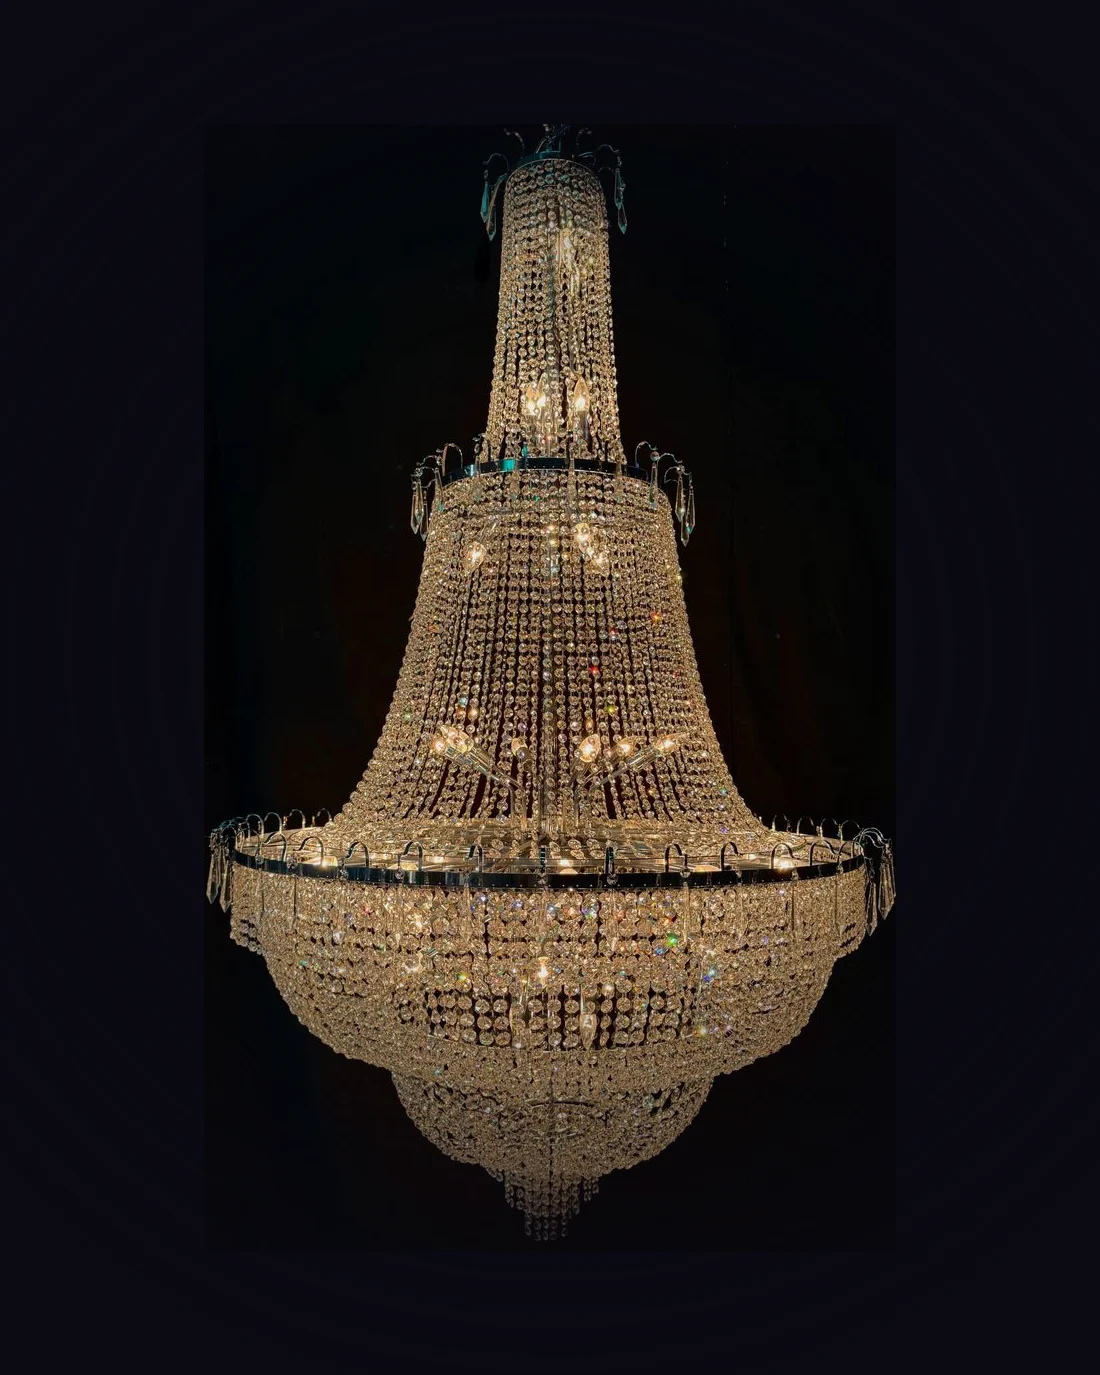
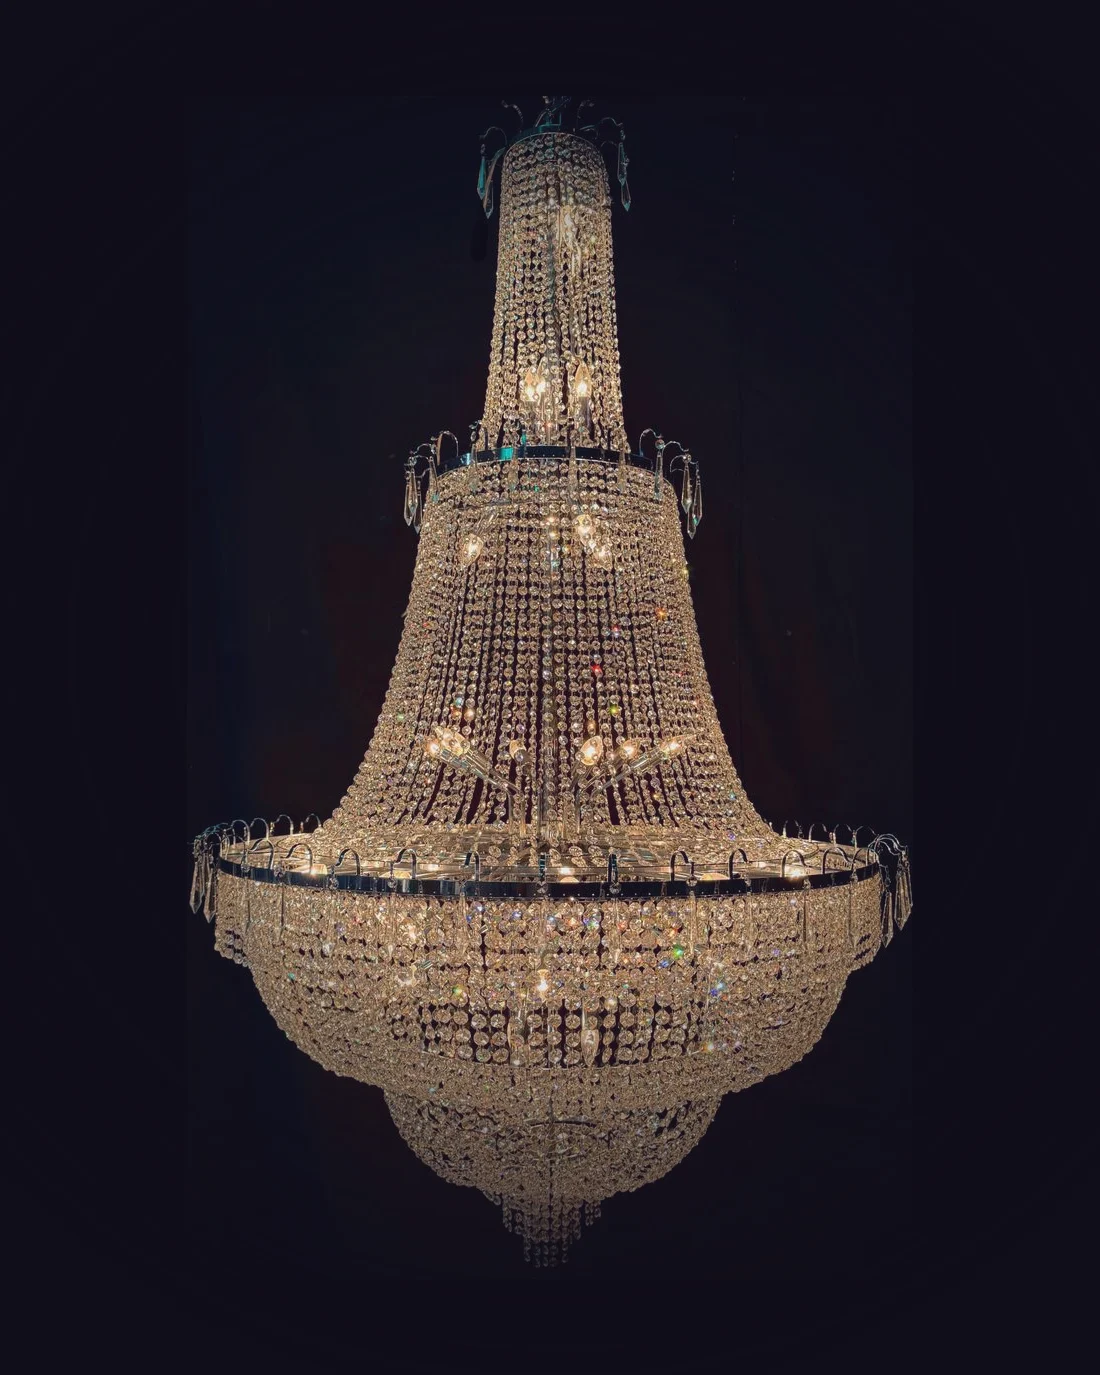
Fotos del catálogo fundidas con la tarjeta (sin recuadro) y centradas
- Blend screen al color exacto de la tarjeta: el fondo negro de cada foto
  se funde con la tarjeta y el producto queda flotando, sin recuadro
- card-media usa el color de la tarjeta; productos centrados

Changed region(s): [[0.1545, 0.0611, 0.8345, 0.9164]]

diff --git a/css/styles.css b/css/styles.css
@@ -284,7 +284,7 @@ input, textarea, select { font-family: inherit; }
 .card.selected::after { content: ""; position: absolute; inset: 0; border: 1px solid var(--gold); border-radius: var(--radius); pointer-events: none; z-index: 5; }
 
 .card-media {
-  position: relative; aspect-ratio: 4 / 5; background: #0b0a12;
+  position: relative; aspect-ratio: 4 / 5; background: var(--surface);
   overflow: hidden; cursor: zoom-in;
 }
 .card-media.is-light { background: radial-gradient(circle at 50% 38%, #ffffff, #d7d3e4 82%); }
